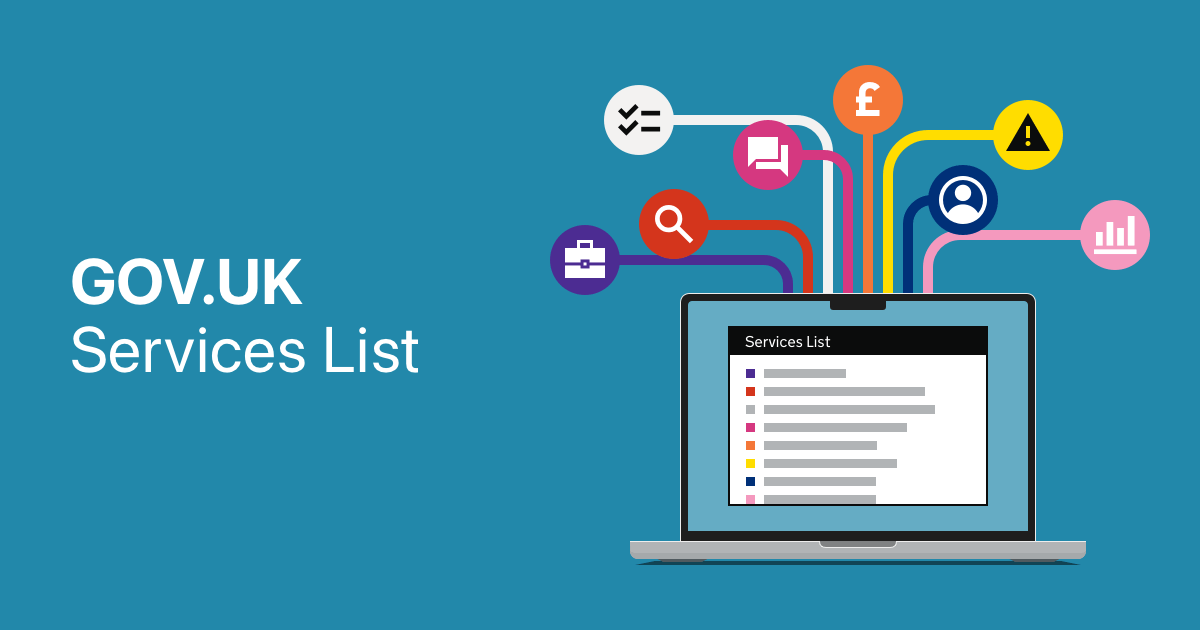
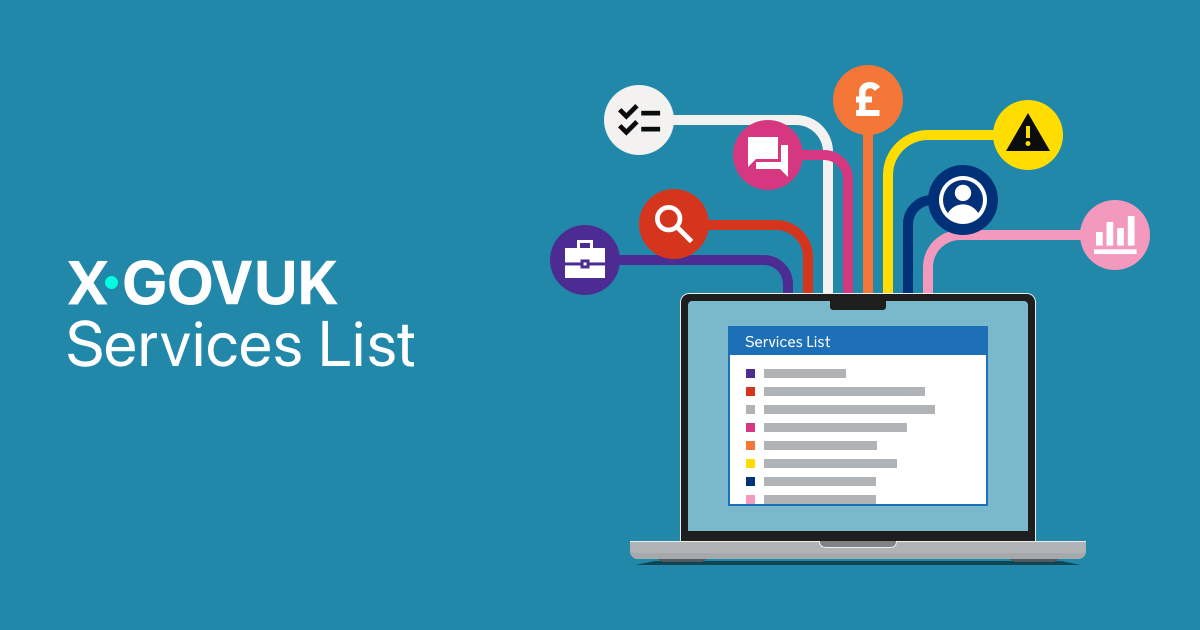
Implement X-GOVUK rebrand

diff --git a/app/views/includes/_header.html b/app/views/includes/_header.html
@@ -1,13 +1,14 @@
 {%- from "govuk/components/service-navigation/macro.njk" import govukServiceNavigation -%}
+{% from "macros/x-govuk-logo.njk" import xGovukLogo -%}
 
-<header class="govuk-header govuk-header--full-width-border app-header" role="banner" data-module="govuk-header">
+<header class="govuk-header" role="banner" data-module="govuk-header">
   <div class="govuk-header__container govuk-width-container app-header__container">
     <div class="govuk-header__logo app-header__logo">
-      <a href="https://x-govuk.github.io" class="govuk-header__link govuk-header__link--homepage">
-        <svg class="govuk-header__logotype x-govuk-header__logotype" xmlns="http://www.w3.org/2000/svg" focusable="false" role="img" width="172" height="35" viewBox="0 0 172 35" aria-label="X-GOVUK">
-          <title>X-GOVUK</title>
-          <path d="M21 29v.2c-2 .8-3 1.4-3 1.8 0 .5 2.2.7 2.2-.6.4 2.1-1.3 2.5-2.3 1.6.4.8.7 2-.5 2.6-1.3-.5-1-1.8-.6-2.6-1.2.9-2.8.4-2.3-1.4v-.2c0 1.3 2 1.1 2.2.6 0-.4-1-1-3-1.8V29c1.2.3 2.4.4 3.7.4 1.2 0 2.3-.1 3.6-.4Zm7.1-6 .1.1c-.7 2.1-.9 3.4-.6 4a4 4 0 0 0 1.3-2.8l2.3 1a11 11 0 0 0-3.2 2c.6.2 1.8-.1 2.4-.5l-3.7 3.8c.4-.7.7-1.9.5-2.5-.8.7-1.4 1.9-1.9 3.2L24.1 29c1.3 0 2.1-.5 2.8-1.2-.5-.4-1.8-.3-4 .6v-.2a12.3 12.3 0 0 0 5.2-5.2ZM6.4 23a16.3 16.3 0 0 0 5.3 5.2h-.1c-2-.7-3.4-.8-3.9-.4.7.6 1.5 1.3 2.8 1.3l-1.2 2.2A9.6 9.6 0 0 0 7.5 28c-.3.6 0 1.9.3 2.4l-3.6-3.6c.6.3 1.9.6 2.5.4a9.6 9.6 0 0 0-3.3-1.9l2.2-1.2c0 1.3.7 2.1 1.3 2.8.3-.5.2-1.8-.5-3.8V23Zm17.8-.6a1.7 1.7 0 0 1 1.1 3 1.8 1.8 0 0 1-2.9-1.3c0-1 .8-1.7 1.8-1.7Zm-13.5 0a1.8 1.8 0 0 1 1.3 3A1.8 1.8 0 0 1 9.1 24c0-.9.7-1.6 1.6-1.7ZM21 19.3a1.7 1.7 0 0 1 1.2 2.9 1.8 1.8 0 0 1-3-1.2c0-1 .8-1.8 1.8-1.8Zm-7.3 0a1.7 1.7 0 0 1 1.1 2.9A1.8 1.8 0 0 1 12 21c0-1 .8-1.8 1.8-1.8Zm15.5-5.7c.8 2 1.4 3 1.8 3 .5 0 .7-2.1-.6-2.1 2.1-.5 2.5 1.3 1.6 2.3.8-.5 2-.7 2.6.6-.5 1.2-1.8 1-2.6.5.9 1 .5 2.8-1.6 2.3 1.3 0 1.1-2.2.6-2.2-.4 0-1 1-1.8 3H29c.3-1.3.4-2.4.4-3.6a15 15 0 0 0-.4-3.7Zm-23.6 0c-.3 1.3-.5 2.5-.5 3.8 0 1.2.2 2.3.5 3.6h-.1c-.8-2-1.4-3-1.8-3-.6 0-.8 2.2.5 2.2-2.1.4-2.5-1.3-1.5-2.3-.8.4-2.1.7-2.7-.5.6-1.3 1.9-1 2.7-.6-1-1-.6-2.8 1.5-2.3-1.3 0-1 2.2-.5 2.2.4 0 1-1 1.8-3h.1ZM17.4 15a2.4 2.4 0 1 1-.1 4.8 2.4 2.4 0 0 1 0-4.8Zm-3.7-3a1.7 1.7 0 0 1 1.1 3 1.8 1.8 0 0 1-2.9-1.3c0-1 .8-1.7 1.8-1.7Zm7.3 0a1.7 1.7 0 0 1 1.2 3 1.8 1.8 0 0 1-3-1.3c0-1 .8-1.7 1.8-1.7ZM10.7 9.1a1.7 1.7 0 0 1 1.3 3 1.8 1.8 0 0 1-2.9-1.4c0-.8.8-1.5 1.6-1.6Zm13.4 0a1.8 1.8 0 0 1 1.2 3 1.8 1.8 0 0 1-2.9-1.4c0-.9.8-1.6 1.8-1.6ZM9.3 3.5l1 2.2A4 4 0 0 0 7.7 7c.6.3 1.8.1 4-.6v.1a9.7 9.7 0 0 0-3 2.3c-.8.8-1.5 1.7-2.2 2.9h-.1c.8-2.1 1-3.4.6-4-.7.7-1.3 1.5-1.3 2.8L3.4 9.3c1.3-.4 2.4-1 3.1-1.8-.5-.3-1.7 0-2.4.4l3.7-3.7c-.3.7-.7 1.9-.5 2.5.9-.9 1.5-2 2-3.2Zm16-.1a9.6 9.6 0 0 0 1.9 3.3c.2-.6-.1-2-.4-2.5l3.6 3.6c-.5-.2-1.8-.6-2.4-.3.8.7 1.9 1.4 3.3 1.8L29 10.5a4 4 0 0 0-1.2-2.8c-.4.5-.3 1.9.4 3.9-.7-1.1-1.4-2-2.3-2.8-.8-1-1.8-1.7-3-2.4h.2c2 .7 3.3.8 3.8.5a4 4 0 0 0-2.8-1.3l1.2-2.2Zm-8-3.4c1.3.6 1 1.9.6 2.7 1-1 2.8-.6 2.3 1.5 0-1.3-2.2-1-2.2-.5 0 .4 1 1 3 1.8v.1a13.7 13.7 0 0 0-7.3 0v-.1c2-.8 3-1.4 3-1.8 0-.6-2.2-.8-2.2.5-.5-2 1.1-2.5 2.3-1.5-.5-.8-.7-2.1.6-2.7ZM45 8l4.5 7.5L54 8h5l-6.8 10.5L59 29h-5l-4.5-7.5L45 29h-5l6.5-10.5L40 8h5Zm16.5 8a2.5 2.5 0 1 1 0 5 2.5 2.5 0 0 1 0-5Zm16 13.5c5.7 0 9.5-3.5 9.5-9v-2.8h-9V21h4.5c0 3-2.1 4.8-5 4.8-3.5 0-5.5-2.7-5.5-7.3s2-7.3 5.5-7.3c2.5 0 4.2 1.2 4.8 3.3h4.5c-.8-4.5-4.3-7-9.3-7-6 0-10 4.3-10 11s3.8 11 10 11Zm22.5 0c6.1 0 10-4.2 10-11s-3.9-11-10-11-10 4.2-10 11 3.8 11 10 11Zm0-3.8c-3.5 0-5.5-2.8-5.5-7.2s2-7.3 5.5-7.3 5.5 2.8 5.5 7.3-2 7.3-5.5 7.3Zm53.5 3.3h4.5v-6.5l2-2.3 6 8.8h5.5l-8.3-11.8L171 8h-5l-8 9.5V8h-4.5v21Zm-12 .3c5.6 0 8.8-3 8.8-7.8V8h-4.6v13c0 2.8-1.4 4.5-4.2 4.5-2.8 0-4.3-1.8-4.3-4.5V8h-4.4v13.5c0 4.8 3.1 7.8 8.7 7.8Zm-23.8-.3h5.5L130 8h-4.8l-4.7 16.5L115.7 8H111l6.8 21Z"/>
-        </svg>
+      <a class="govuk-header__link govuk-header__link--homepage" href="https://x-govuk.github.io">
+        {{ xGovukLogo({
+          classes: "govuk-header__logotype x-govuk-header__logotype",
+          ariaLabelText: "X-GOVUK"
+        }) | trim | indent(10) }}
       </a>
     </div>
   </div>

diff --git a/app/views/layout.html b/app/views/layout.html
@@ -1,11 +1,14 @@
+{% set govukRebrand = true %}
+{% set themeColor = "#28a" %}
+
 {% extends "govuk/template.njk" %}
 
 {% set opengraphImageUrl = "https://govuk-digital-services.herokuapp.com/images/opengraph-image.png" %}
 
 {% block headIcons %}
   <link rel="shortcut icon" sizes="16x16 32x32 48x48" href="/images/favicon.ico" type="image/x-icon">
-  <link rel="mask-icon" href="https://raw.githubusercontent.com/x-govuk/logo/main/images/x-govuk-mask-icon.svg?raw=true" color="#0b0c0c">
-  <link rel="apple-touch-icon" href="https://raw.githubusercontent.com/x-govuk/logo/main/images/x-govuk-apple-touch-icon.png">
+  <link rel="mask-icon" href="https://raw.githubusercontent.com/x-govuk/logo/main/images/x-govuk-icon-mask.svg?raw=true" color="#28a">
+  <link rel="apple-touch-icon" href="https://raw.githubusercontent.com/x-govuk/logo/main/images/x-govuk-icon-180.png">
 {% endblock %}
 
 {% block head %}

diff --git a/app/assets/sass/application.scss b/app/assets/sass/application.scss
@@ -1,16 +1,23 @@
+// GOV.UK Frontend options
+$govuk-global-styles: true;
+$govuk-new-organisation-colours: true;
+$govuk-new-typography-scale: true;
+$govuk-assets-path: "/assets/";
 $govuk-font-family: system-ui, sans-serif;
-$govuk-brand-colour: #28a;
+$govuk-brand-colour: #2288aa;
 $govuk-link-colour: #006688;
 $govuk-link-hover-colour: #004466;
 $govuk-link-visited-colour: #333366;
 $govuk-page-width: 1100px;
-$govuk-new-typography-scale: true;
 
-@import "govuk-frontend/dist/govuk/all";
+// Import GOV.UK Frontend
+@import "govuk-frontend/dist/govuk";
+
+// Import GOV.UK Prototype Components
 @import "@x-govuk/govuk-prototype-components/x-govuk/components/masthead/masthead";
 
+// Application components
 @import "count";
-@import "header";
 @import "list";
 @import "screenshot";
 @import "tag";

diff --git a/app/views/includes/_footer.html b/app/views/includes/_footer.html
@@ -1,5 +1,16 @@
-<footer class="govuk-footer " role="contentinfo">
-  <div class="govuk-width-container ">
+{% from "macros/x-govuk-logo.njk" import xGovukLogo -%}
+
+<footer class="govuk-footer" role="contentinfo">
+  <div class="govuk-width-container">
+    {{ xGovukLogo({
+      classes: "govuk-footer__crown x-govuk-footer__crown",
+      attributes: {
+        width: "45",
+        height: "45"
+      },
+      useCrown: true,
+      useLogotype: false
+    }) | trim | indent(4) }}
     <div class="govuk-footer__meta">
       <div class="govuk-footer__meta-item govuk-footer__meta-item--grow">
         <ul class="govuk-footer__inline-list">
@@ -55,6 +66,7 @@
         </div>
       </div>
       <div class="govuk-footer__meta-item">
+        © X-GOVUK
       </div>
     </div>
   </div>
